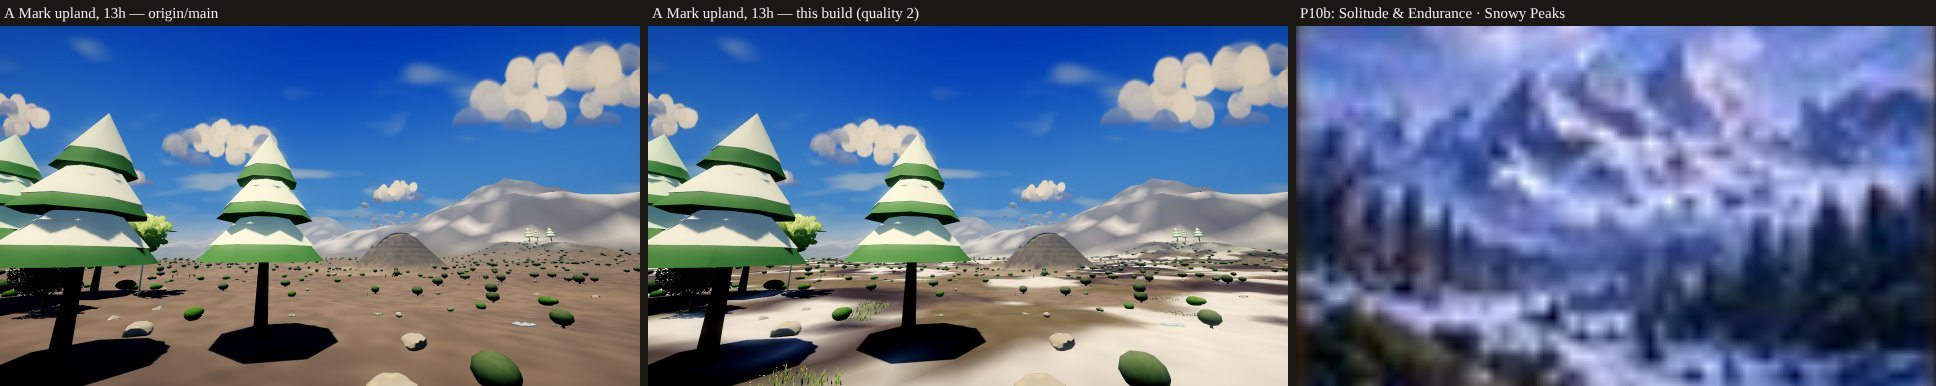
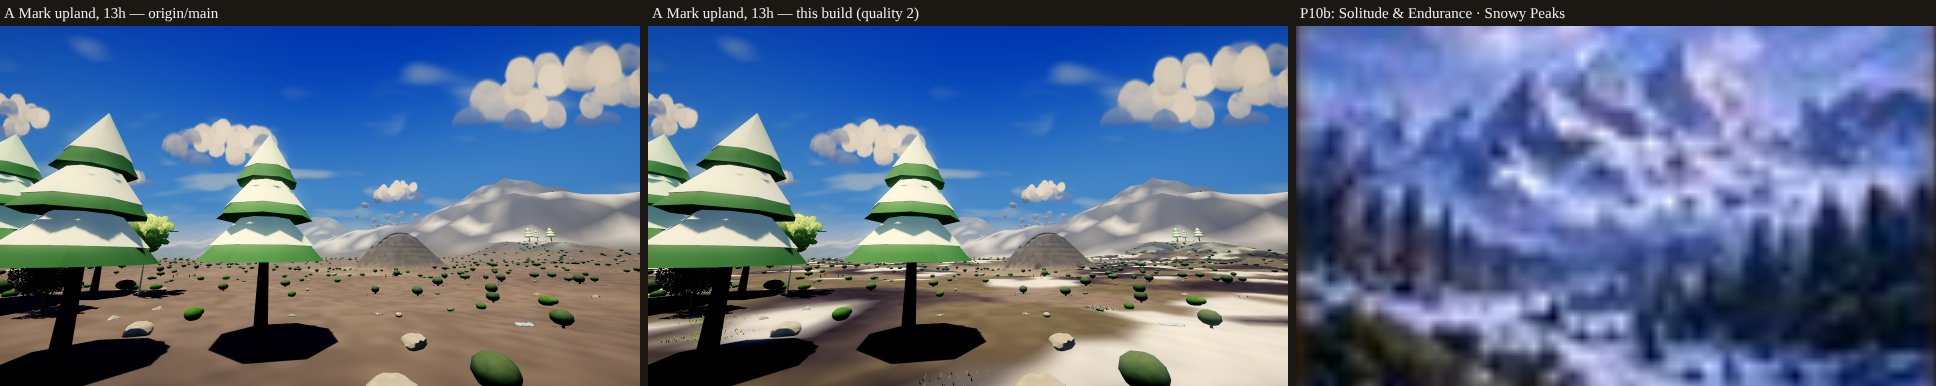
Look: Session 2704's sheets (eight views) and devlog
Claude-Session: https://claude.ai/code/session_019eFMMpRMutG21uCrP8JGeo

diff --git a/docs/devlog/2704.md b/docs/devlog/2704.md
@@ -1,0 +1,37 @@
+## v80 — Session 2704 — the Mark's low ground: black moor and lying snow
+
+The look builder's run of 26 Nov (evening), on `auto/look-2704` from origin/main. No `FREEZE:` issue was open; the last look branch
+(2700, renumbered 2702) was two hours old. Section I names nothing open for the look builder.
+
+**The gap.** Of the eight views, the street waits on the town dressing (#2058, `82`/`83`, held for Michael), and the valley and the coast
+wait on relief (card F3). The *Mark upland* (*Solitude & Endurance · Snowy Peaks*) still had a gap in this lane's files. S2696 and S2702
+both left it owed: "snow on the low ground (the Mark's line is 18 m and the camera stands at 5) and the canon's black moor". A probe at
+the camera (`tests/tmp`, not kept) put the ground there at 3–9 m, in moor (Doniair Tops, the Mark), a cold cell with a snow line of 18 m,
+coloured `#836f61`. That is the Gatelands' brown moor, with no snow below the line. The panel is dark ground and dark conifers under snow.
+The canon (§ the Mark) reads "Tundra, black moor, snow-pines".
+
+**What changed** (`js/80-world-terrain.js`, `groundColor` only, cold cells only; a cell is cold when `snowLineAt` < 30, i.e. 18 m):
+- **The black moor.** Moor ground in a cold cell is laid over with dark heather (`0x2e272c`) in 17 m patches, with tawny dead grass
+  (`0x6a5e46`) between. The blend goes by the moor's weight at the point, 0.6–0.9 of the way.
+- **Lying snow.** Old snow lies on flat ground (ny over 0.86–0.97) below the snow line. It lies in drifts from two noises (14 m and 5 m),
+  and the threshold rises with depth below the line, so the drifts thin out to nothing 45 m under it. Sand under 3.2 m is left alone.
+  The settled cover of a snowfall (`WX.cover`) and the snow over the line (S2702) are unchanged.
+- `snowLineAt` is now read once at the top of the block, where S2702's code read it, not twice.
+- Tuned by measurement, not by eye. Over 600 × 600 m of ground north of the camera (6,979 points, 3–14 m), white went from 0 to 33% on
+  the first try, then 13%, then 20% (the threshold `1-.47*below`). Dark ground (luminance under 0.3) went from 0 to 34%.
+
+### Verified (headless Chromium)
+- `node scripts/look_shots.mjs --before=origin/main --out=docs/look/s2704`, all eight views. The Mark upland's near ground is now snow
+  drifts over dark moor, where it was bare brown: 538 → 547 draws and 0.83 → 0.86 M triangles (the chunks' grass and scatter vary with the
+  colour's mask). The other seven are the same to the eye, with identical draws and triangles. Kept: `mark-upland.jpg` and `contact.jpg`
+  (all eight).
+- `f3land`, `snowpine`, `climate`: see the PR (filled in at the end of the run). `parsecheck` OK.
+
+### Needs eyes
+- **The Mark upland (*Snowy Peaks*): far, closer.** The low ground is now snow over dark ground, as in the panel. Still furthest from it:
+  - the fells are smooth low domes, not peaks (relief, F3);
+  - the near snow-pines are stacked green cones with white tiers, where the panel's conifers are dark and narrow (the tree kit);
+  - the sky is a saturated noon blue, where the panel is cold violet light (F3's `landHour`).
+- Every lowland moor and field on the Mark now carries a fifth of its flat ground in snow, all year. The calendar has seasons (S499) but
+  the ground colour is baked per chunk, so the drifts do not change with summer. Whether the Mark's summer lowland should be bare is a
+  playtest call. A small change if so: `recolourChunk` already re-bakes chunks for a snowfall.
